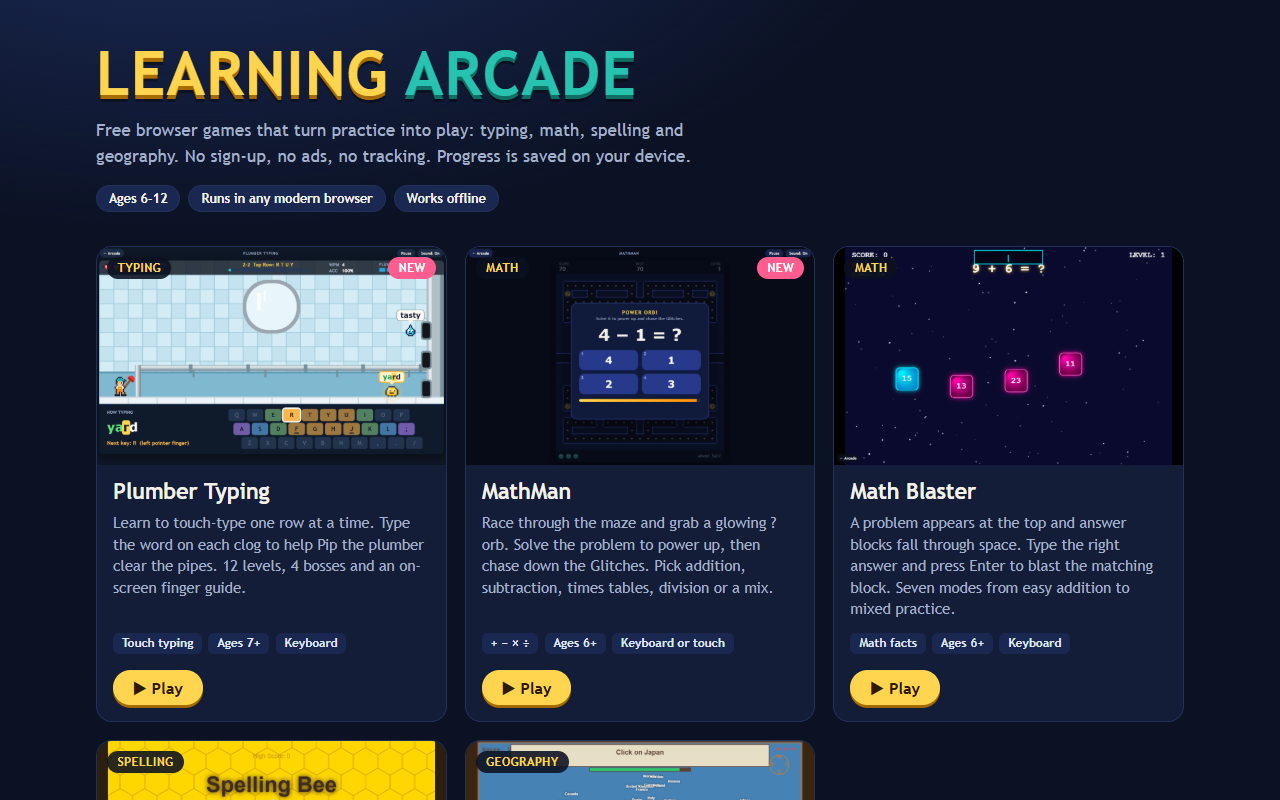
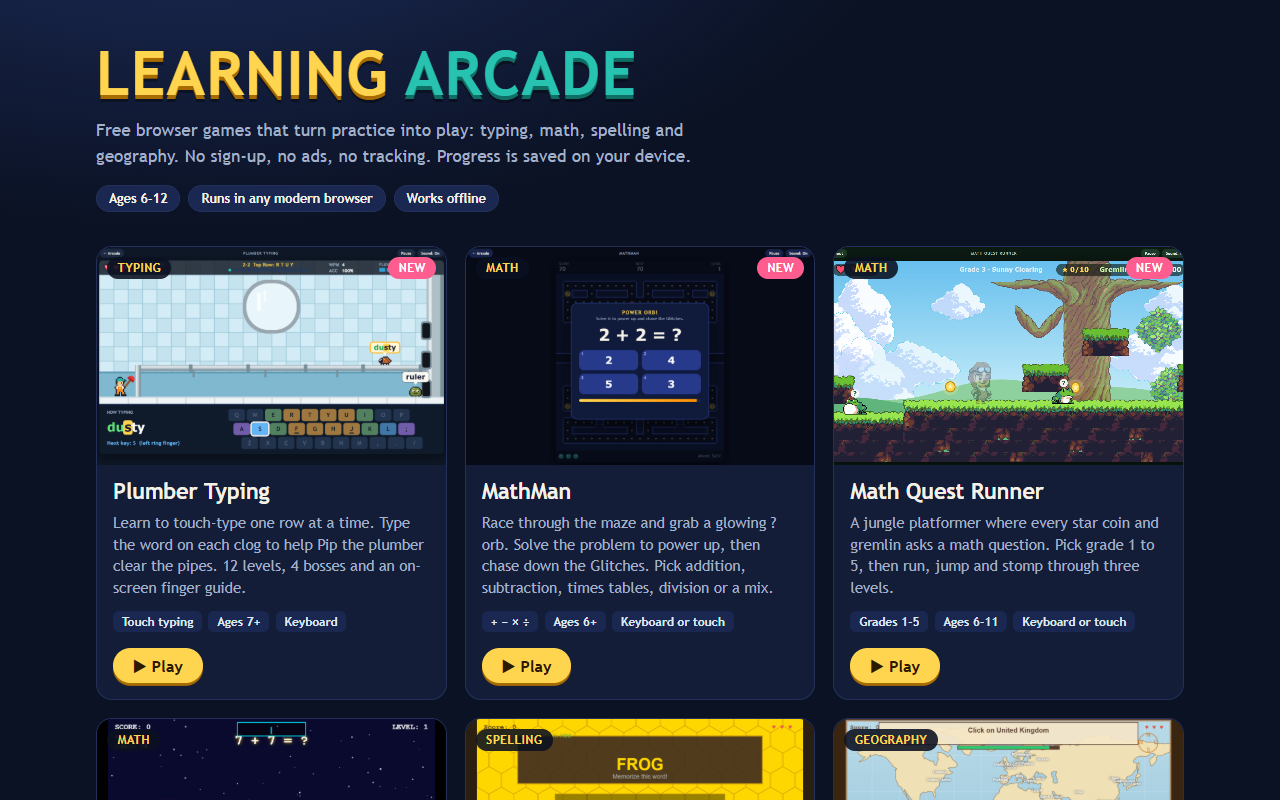
Add Math Quest Runner to the hub
Math Quest Runner is a jungle platformer with its own repository and live
page (GitHub Pages); the hub links to it as a sixth game.

diff --git a/index.html b/index.html
@@ -61,7 +61,15 @@ footer a { color:var(--teal); }
         <span class="play">&#9654; Play</span>
       </div>
     </a>
-    <a class="card" href="math-blaster.html">
+    <a class="card" href="https://zaarnno-dev-hub-dot.github.io/math-quest-runner/">
+      <div class="thumb"><img src="docs/screenshots/math-quest-runner.png" alt="Math Quest Runner: a jungle platformer with a star coin and a gremlin frog"><span class="tag">Math</span><span class="tag new">New</span></div>
+      <div class="body">
+        <h2>Math Quest Runner</h2>
+        <p>A jungle platformer where every star coin and gremlin asks a math question. Pick grade 1 to 5, then run, jump and stomp through three levels.</p>
+        <div class="meta"><span>Grades 1-5</span><span>Ages 6-11</span><span>Keyboard or touch</span></div>
+        <span class="play">&#9654; Play</span>
+      </div>
+    </a>    <a class="card" href="math-blaster.html">
       <div class="thumb"><img src="docs/screenshots/math-blaster.png" alt="Math Blaster: answer blocks falling through space"><span class="tag">Math</span></div>
       <div class="body">
         <h2>Math Blaster</h2>
@@ -91,7 +99,7 @@ footer a { color:var(--teal); }
   </section>
 
   <footer>
-    Made by Zaarno. Every game is a single HTML file with no tracking and no third-party scripts.
+    Made by Zaarno. No game uses tracking or third-party scripts.
     Open source under the MIT license: <a href="https://github.com/Zaarnno-Dev-Hub-dot/zaarno-learning-arcade">view the code on GitHub</a>.
   </footer>
 </main>

diff --git a/README.md b/README.md
@@ -1,7 +1,7 @@
 # Learning Arcade
 
 Free browser games that turn practice into play: touch typing, math facts, spelling and geography.
-No sign-up, no ads, no tracking. Every game is a single HTML file that runs in any modern browser, even offline.
+No sign-up, no ads, no tracking. Every game runs in any modern browser, and the ones in this repo are a single HTML file each.
 
 ![The Learning Arcade hub](docs/screenshots/hub.png)
 
@@ -11,6 +11,7 @@ No sign-up, no ads, no tracking. Every game is a single HTML file that runs in a
 |---|---|---|---|
 | [Plumber Typing](plumber-typing.html) **(new)** | Touch typing, one keyboard row at a time | 7+ | Keyboard |
 | [MathMan](mathman.html) **(new)** | + &minus; &times; &divide; facts inside a maze-chase game | 6+ | Keyboard, swipe or D-pad |
+| [Math Quest Runner](https://github.com/Zaarnno-Dev-Hub-dot/math-quest-runner) **(new)** | Math facts and fractions in a jungle platformer, grades 1-5 (lives in its own repository) | 6+ | Keyboard or touch |
 | [Math Blaster](math-blaster.html) | Quick arithmetic with falling answer blocks | 6+ | Keyboard |
 | [Spelling Bee](spelling-bee.html) | Spelling: see it, hear it, clues, speed rounds, jumbles | 7+ | Keyboard |
 | [GeoQuest](geoquest.html) | Countries, capitals, landmarks and flags on a world map | 8+ | Mouse or touch, plus keyboard |
